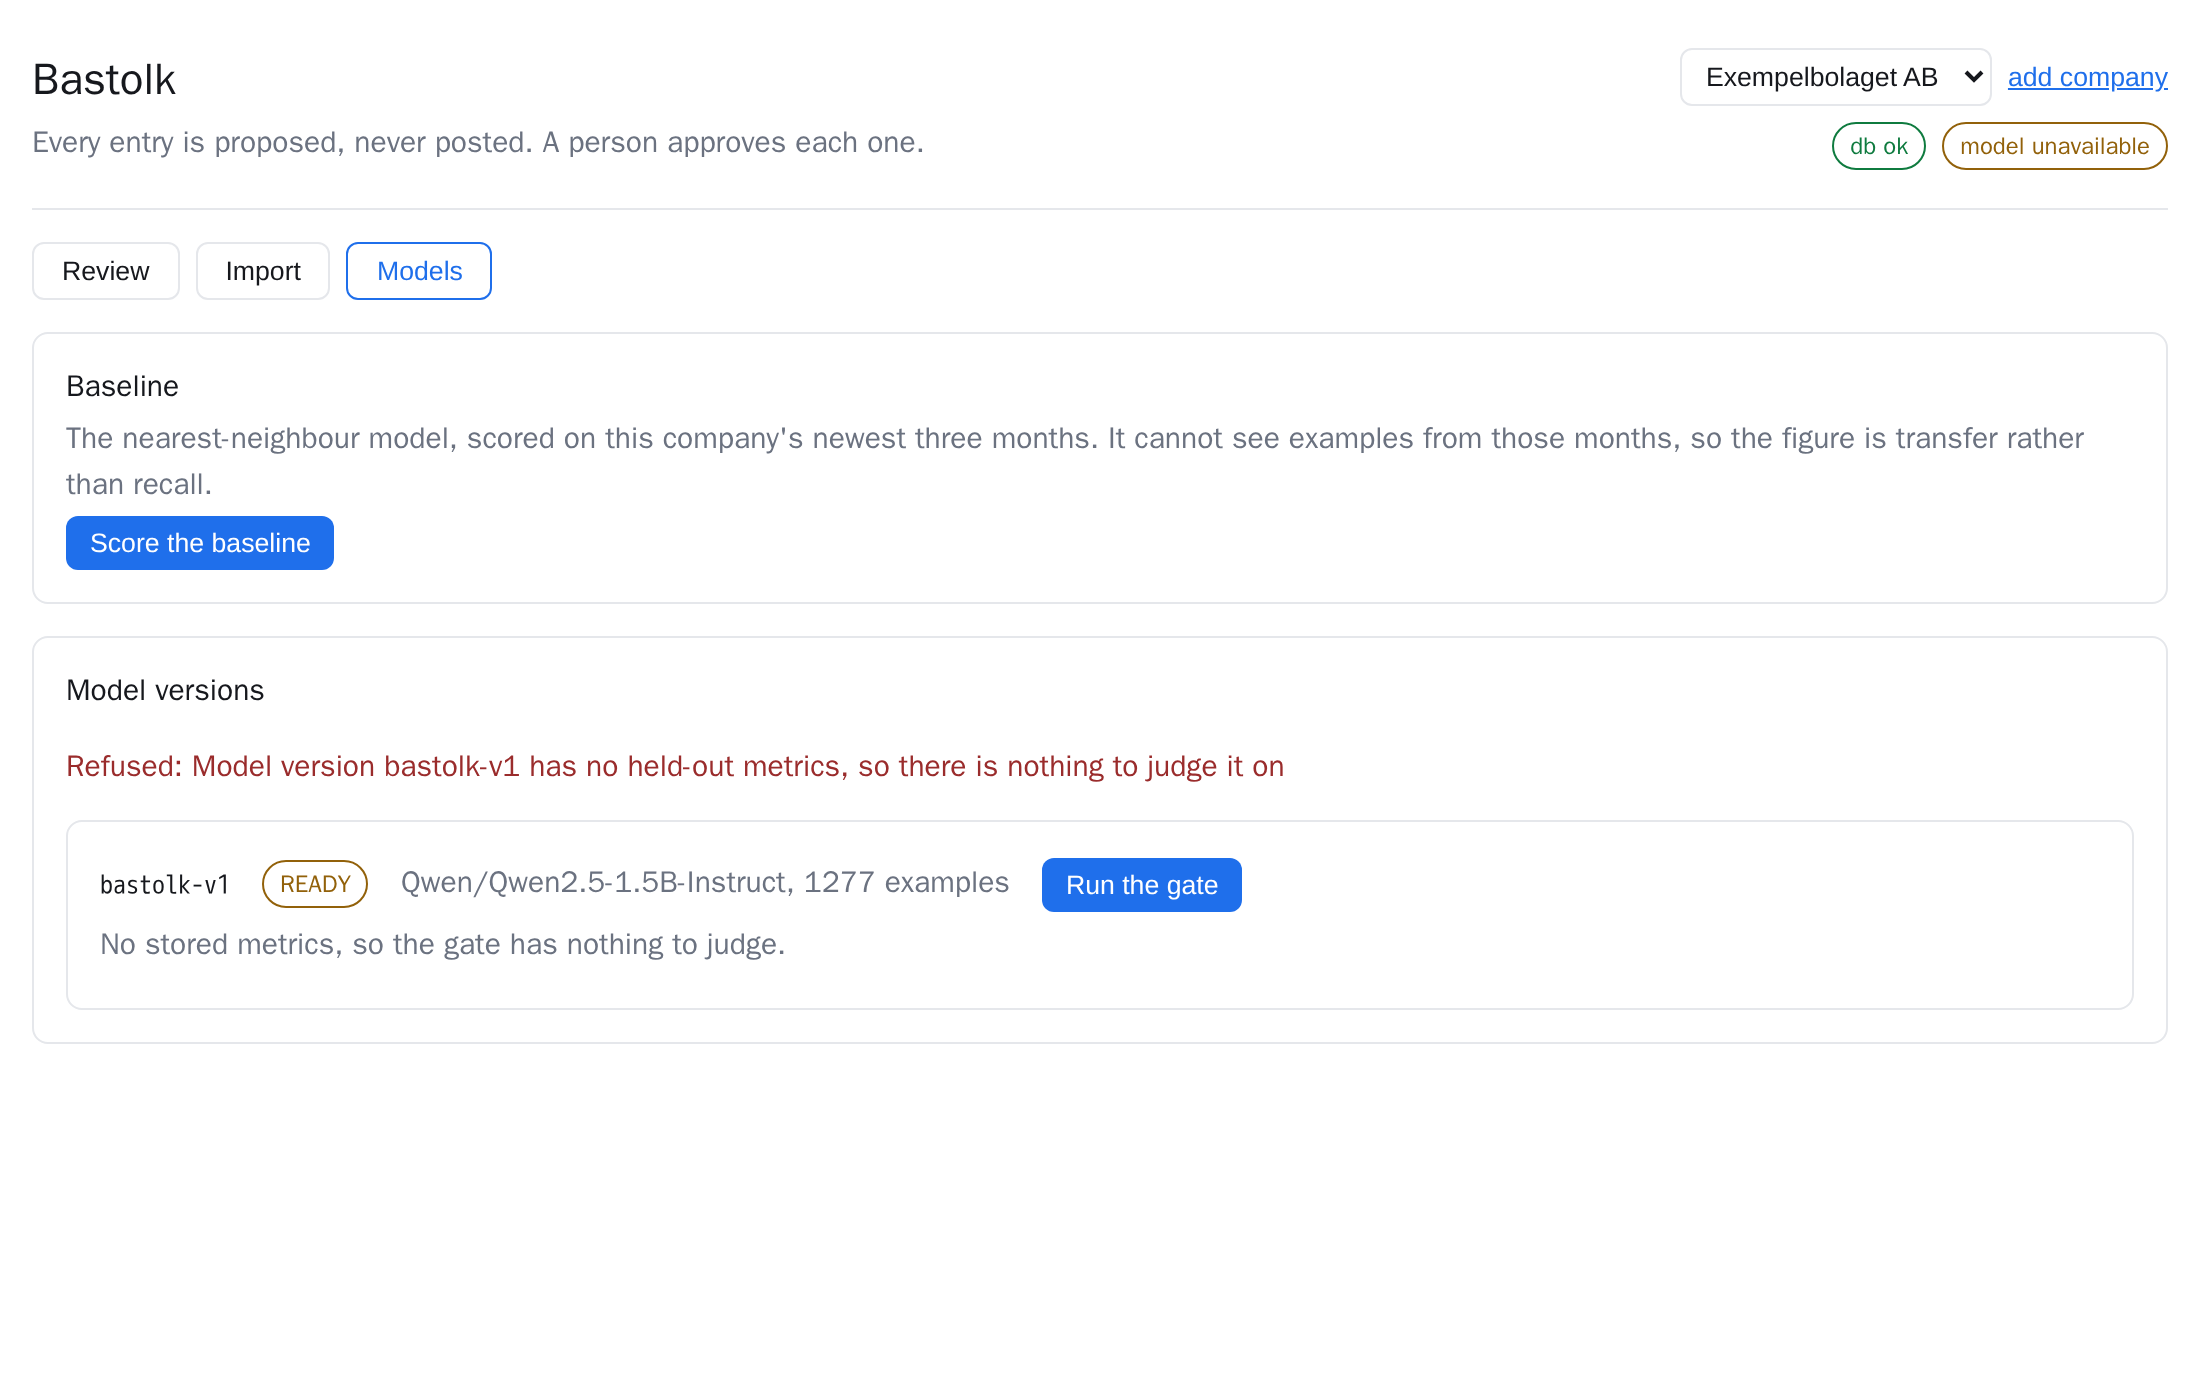
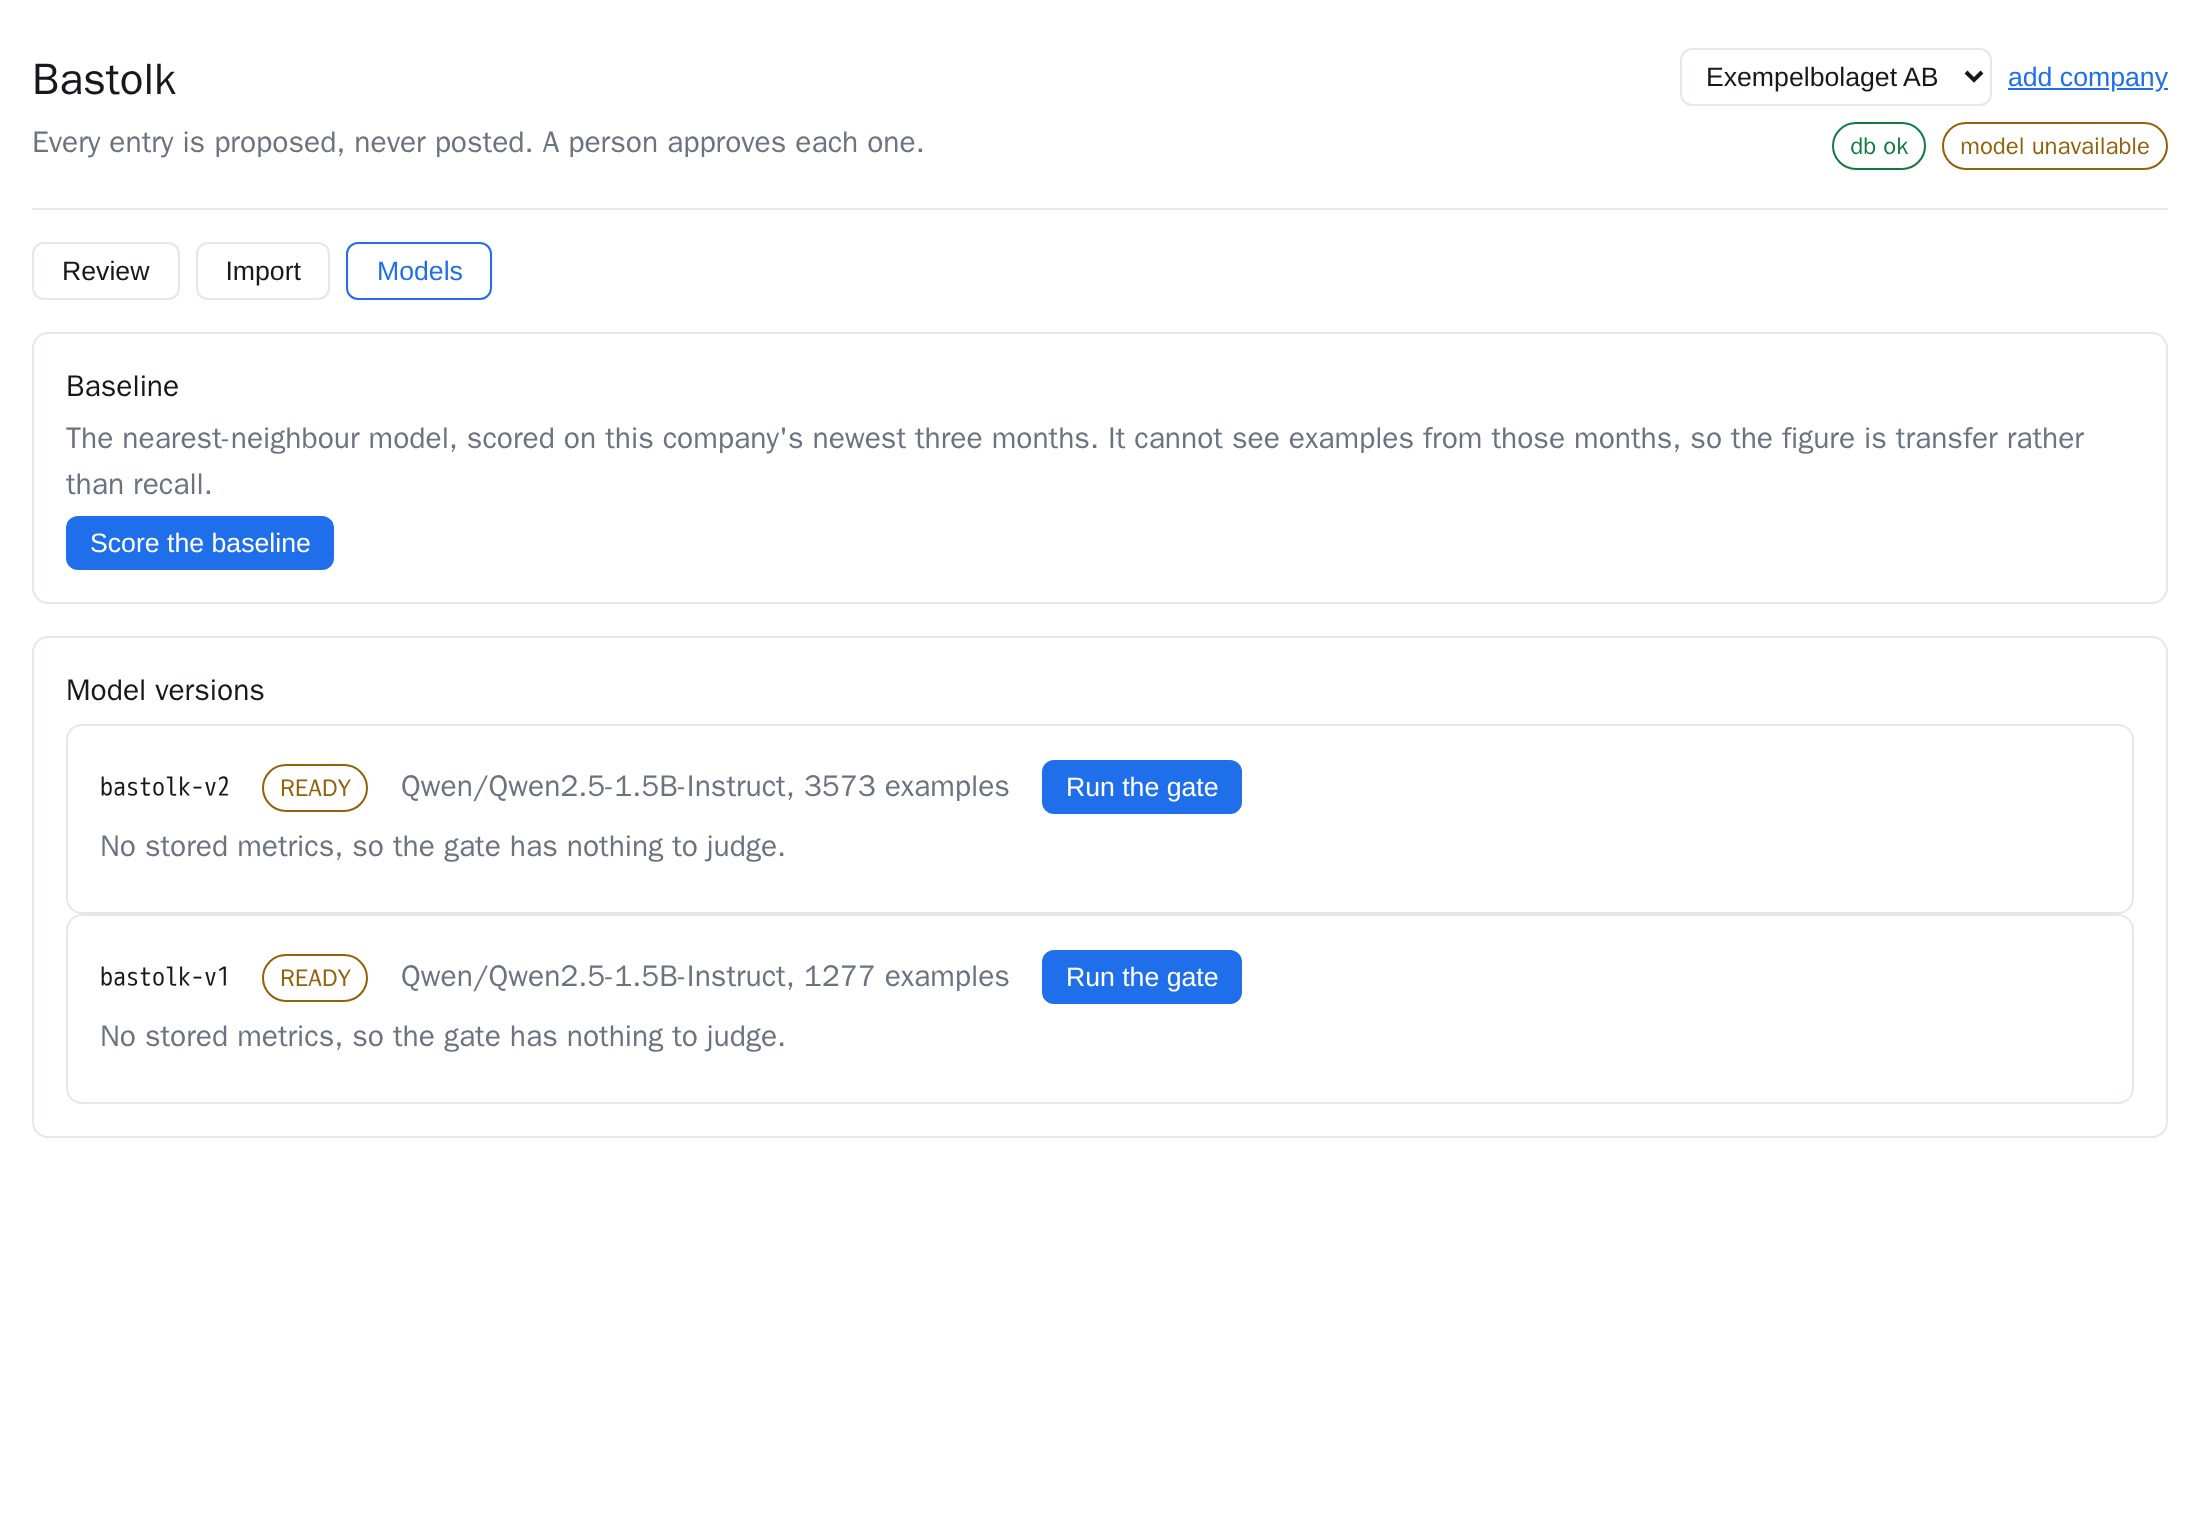
Train a second version and report what more data bought
v2 is identical to v1 except for how much it saw: 3573 training examples
against 1277, same base model, same recipe, same three epochs, and both scored
on the same 143 held-out examples. A check confirms none of those examples
reached either training set.

Account accuracy went from 39.2% to 60.8%, VAT from 74.1% to 83.2%, both
together from 37.8% to 60.1%. Neither version produced a single unparseable
answer. Nothing was tuned, so this is a data-quantity result: the first model
was starved rather than badly configured.

The remaining errors are mostly real ambiguity. Software against IT services
and IT services against other external services are semantically adjacent, and
employer contributions against employee tax are paid to the same authority and
can carry the same bank text, so no amount of data settles that one from the
text alone. That is an argument for the correction loop rather than a better
model, and it is now what TODO.md says to work on.

diff --git a/README.md b/README.md
@@ -71,32 +71,45 @@ it never trained on. This is the optimistic number: the validation slice comes
 from the same generator as the training set, so it shares its vocabulary and
 its habits. Real bank text will be harder.
 
-| | Qwen2.5-1.5B-Instruct, LoRA, 3 epochs |
-| --- | --- |
-| Account correct | 39.2% |
-| VAT treatment correct | 74.1% |
-| Both correct | 37.8% |
-| Answers that did not parse | 0 |
-| Held-out examples behind those figures | 143 |
-| Training examples | 1277, over 31 account and VAT labels, smallest label 22 |
-| Real bank transactions coded end to end | 73 |
+Two versions were trained, identical in every respect except how much data
+they saw. Both are scored on the **same** 143 held-out examples, and a check
+confirms none of those examples reached either training set.
+
+| | v1 | v2 |
+| --- | --- | --- |
+| Training examples | 1277 | 3573 |
+| Account correct | 39.2% | 60.8% |
+| VAT treatment correct | 74.1% | 83.2% |
+| Both correct | 37.8% | 60.1% |
+| Answers that did not parse | 0 | 0 |
+
+Base model Qwen2.5-1.5B-Instruct, LoRA adapters in bfloat16, three epochs,
+143 held-out examples behind every figure. 73 real bank transactions were
+coded end to end.
 
 Reading those numbers:
 
-- **The format was learned completely and the task was not.** Not one of the
-  143 answers failed to parse, so the model reliably produces the small JSON
-  object it was trained to produce. Choosing the right account out of 31 is a
-  different problem, and 39% is weak.
-- **VAT is much easier than the account**, which is what you would expect: the
-  treatment follows mostly from whether the supplier reads as Swedish or
-  foreign, and that is visible in the text. The account needs to know what the
-  supplier actually sells.
-- **1277 examples is small.** The design called for a few thousand and two
-  generation rounds produced this after deduplication and two discarded
-  batches. More data is the first thing to try before anything clever.
-- **No baseline sits beside this figure**, because the baseline searches a
-  company's real history and there is none. That makes this an unanchored
-  number, and it should not be quoted without saying so.
+- **The format was learned completely by both.** Not one answer out of 286
+  failed to parse. Producing the small JSON object was never the hard part.
+- **Nearly tripling the data moved the account from 39% to 61%.** The recipe
+  did not change, so that is a data-quantity result rather than a tuning one,
+  and it says the first model was starved rather than badly configured. It
+  also says the next gain is likelier to come from more and better generated
+  text than from a larger base model.
+- **VAT is consistently easier than the account.** The treatment follows
+  mostly from whether the supplier reads as Swedish or foreign, and that is
+  visible in the text. The account needs to know what the supplier sells.
+- **The remaining errors are mostly real ambiguity, not noise.** The most
+  common confusions are `5420 -> 6540` (software against IT services),
+  `6540 -> 6590` (IT services against other external services), and
+  `2730 <-> 2710` (employer contributions against employee tax). The last pair
+  is paid to the same authority and can produce the same bank text, so a
+  person could not reliably tell them apart from the text alone either. That
+  is a limit of the input, and it is an argument for the correction loop
+  rather than for a better model.
+- **No baseline sits beside these figures**, because the baseline searches a
+  company's real history and there is none. That makes them unanchored, and
+  they should not be quoted without saying so.
 
 ![The model versions screen](docs/images/models.png)
 

diff --git a/TODO.md b/TODO.md
@@ -70,9 +70,17 @@ is worth doing before it.
 
 ## Data quality
 
-- [ ] **Generate a larger and more varied dataset.** Two rounds produced 1420
-  usable examples across 31 labels. Two batches had to be discarded after
-  reading them, which is a generator problem rather than a volume one.
+Going from 1277 to 3573 training examples moved account accuracy from 39% to
+61% with no other change, so this section is where the next gain is.
+
+- [ ] **Keep generating.** The curve has not obviously flattened, and a fourth
+  round costs minutes. Report the accuracy at each dataset size so the point
+  where it stops paying is visible rather than guessed at.
+- [ ] **Attack the confusions rather than the volume.** The errors concentrate
+  on `5420` against `6540`, `6540` against `6590`, and `2730` against `2710`.
+  The first two are semantically adjacent and want more contrastive examples.
+  The third is paid to the same authority and can carry the same bank text, so
+  more data will not fix it and the correction loop has to.
 - [ ] **Give the batch reviewer something harder than its own judgement.** It
   passed a batch of transfers that contained taxi fares and a salary run. A
   cheaper and stricter check is whether a text also appears under another
